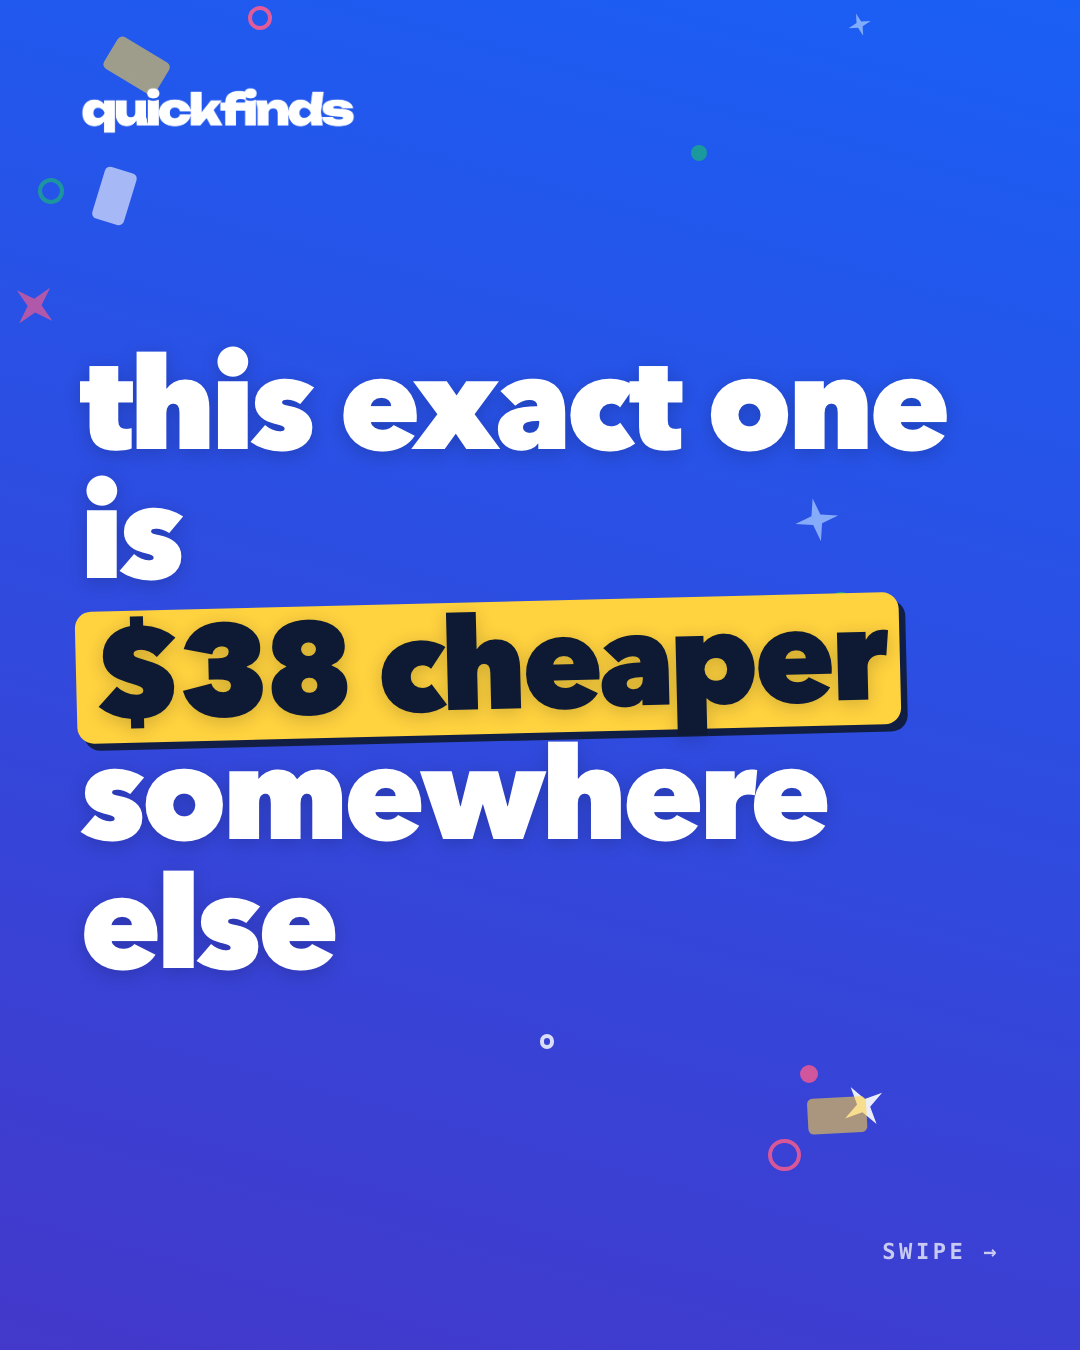
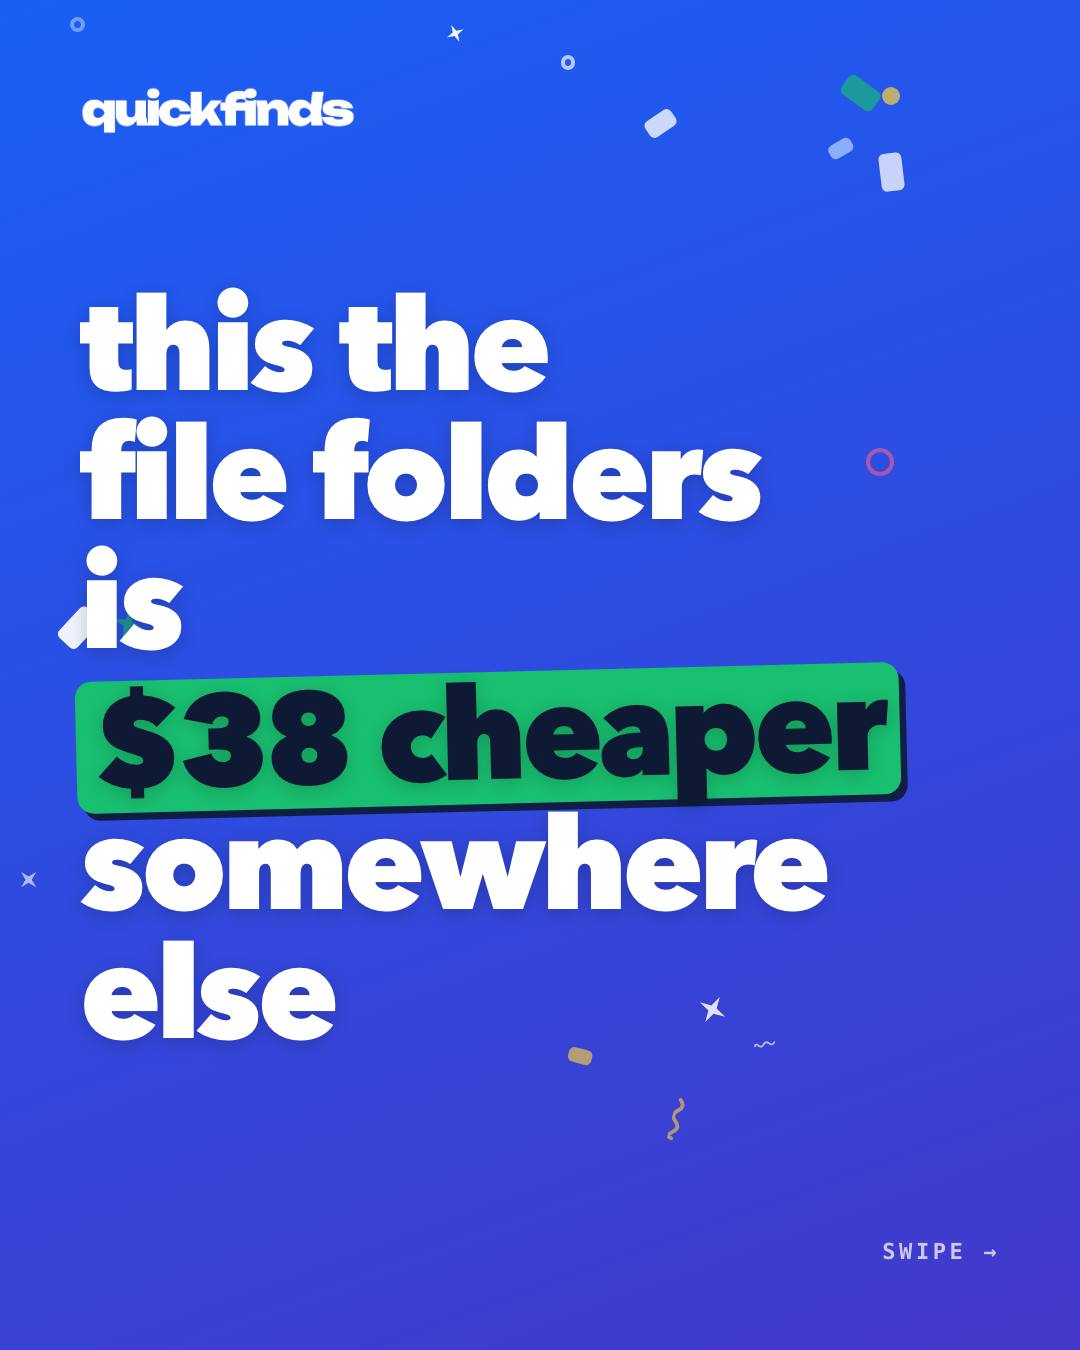
daily site 2026-08-14T20:49

diff --git a/index.html b/index.html
@@ -75,7 +75,7 @@
       </div>
       
       <div class="cap">
-        <pre>the same avene cleanance cleansing gel for face and body is $8 cheaper at ulta than at beautifiedyou today
+        <pre>avene is one of the few things on my shelf I actually finish
 
 #quickfinds #dealfinder #pricecomparison #shopsmart #savemoney</pre>
         <button class="copy" onclick="copyCap(this)">copy caption</button>
@@ -99,7 +99,7 @@
       </div>
       
       <div class="cap">
-        <pre>the same infinitipro by conair 1875w frizz-free pro titanium ceramic ac is $33 cheaper at walgreens than at ulta today
+        <pre>conair dryers are one of those things I always end up overpaying for somewhere
 
 #quickfinds #dealfinder #pricecomparison #shopsmart #savemoney</pre>
         <button class="copy" onclick="copyCap(this)">copy caption</button>
@@ -154,7 +154,7 @@ Clearance sells through — comment DEALS and catch the next drop early.
       </div>
       
       <div class="cap">
-        <pre>the same pendaflex double ply reinforced top tab colored file folders is $38 cheaper at best buy than at lowes today
+        <pre>needed folders for class and nearly paid way more than I had to
 
 #quickfinds #dealfinder #pricecomparison #shopsmart #savemoney</pre>
         <button class="copy" onclick="copyCap(this)">copy caption</button>
@@ -178,7 +178,7 @@ Clearance sells through — comment DEALS and catch the next drop early.
       </div>
       
       <div class="cap">
-        <pre>two shops, same mitts, one of them is charging you way more today
+        <pre>the same kitchenaid ribbed soft silicone 2-pc. oven mitt set is $15 cheaper at lowes than at macys today
 
 #quickfinds #dealfinder #pricecomparison #shopsmart #savemoney</pre>
         <button class="copy" onclick="copyCap(this)">copy caption</button>
@@ -295,7 +295,7 @@ caught live by quickfinds. comment DEALS to know first.
       </div>
       
       <div class="cap">
-        <pre>the same bosch bulldog 1 in. x 10 in. l steel is $28 cheaper at lowes than at ace hardware today
+        <pre>took about ten seconds to find out I was paying more for the exact same bit
 
 #quickfinds #dealfinder #pricecomparison #shopsmart #savemoney</pre>
         <button class="copy" onclick="copyCap(this)">copy caption</button>
@@ -319,7 +319,7 @@ caught live by quickfinds. comment DEALS to know first.
       </div>
       
       <div class="cap">
-        <pre>found this while doing nothing special and now I always look twice
+        <pre>same shirt, same day, two very different prices and you were never told
 
 #quickfinds #dealfinder #pricecomparison #shopsmart #savemoney</pre>
         <button class="copy" onclick="copyCap(this)">copy caption</button>
@@ -343,7 +343,7 @@ caught live by quickfinds. comment DEALS to know first.
       </div>
       
       <div class="cap">
-        <pre>the same crock-pot artisan 2 piece 3 quarts enameled cast iron is $50 cheaper at wayfair than at lowes today
+        <pre>one good pot on the stove does more for a kitchen than most things
 
 #quickfinds #dealfinder #pricecomparison #shopsmart #savemoney</pre>
         <button class="copy" onclick="copyCap(this)">copy caption</button>
@@ -391,7 +391,7 @@ caught live by quickfinds. comment DEALS to know first.
       </div>
       
       <div class="cap">
-        <pre>identical model number, both in stock, and the price still depends on where you clicked
+        <pre>identical model, two very different numbers, and neither store will mention the other
 
 #quickfinds #dealfinder #pricecomparison #shopsmart #savemoney</pre>
         <button class="copy" onclick="copyCap(this)">copy caption</button>
@@ -415,7 +415,7 @@ caught live by quickfinds. comment DEALS to know first.
       </div>
       
       <div class="cap">
-        <pre>same keyboard, same model number, two very different ideas of what it is worth
+        <pre>the same logitech g213 prodigy rgb gaming keyboard, multi is $40 cheaper at lenovo usa than at kohls today
 
 #quickfinds #dealfinder #pricecomparison #shopsmart #savemoney</pre>
         <button class="copy" onclick="copyCap(this)">copy caption</button>
